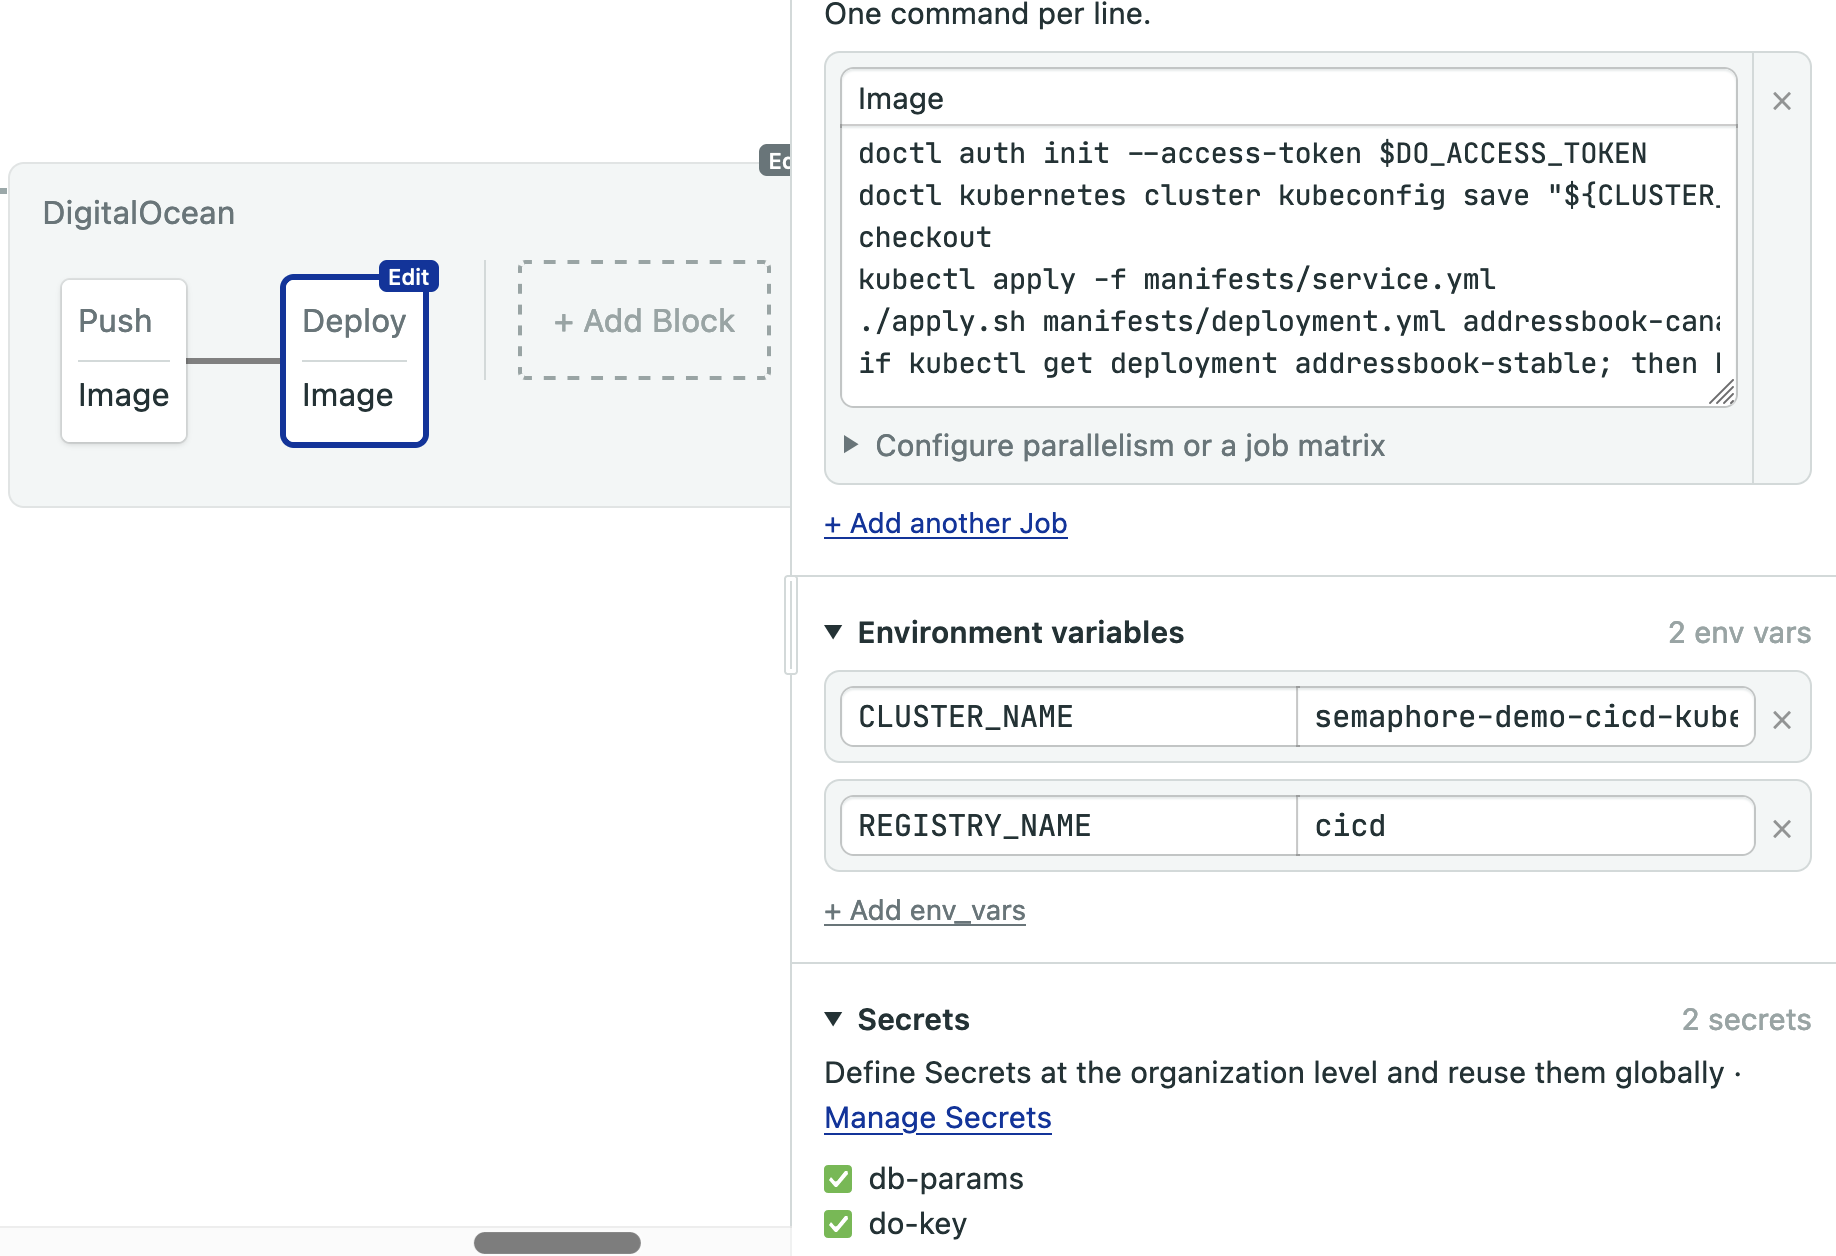
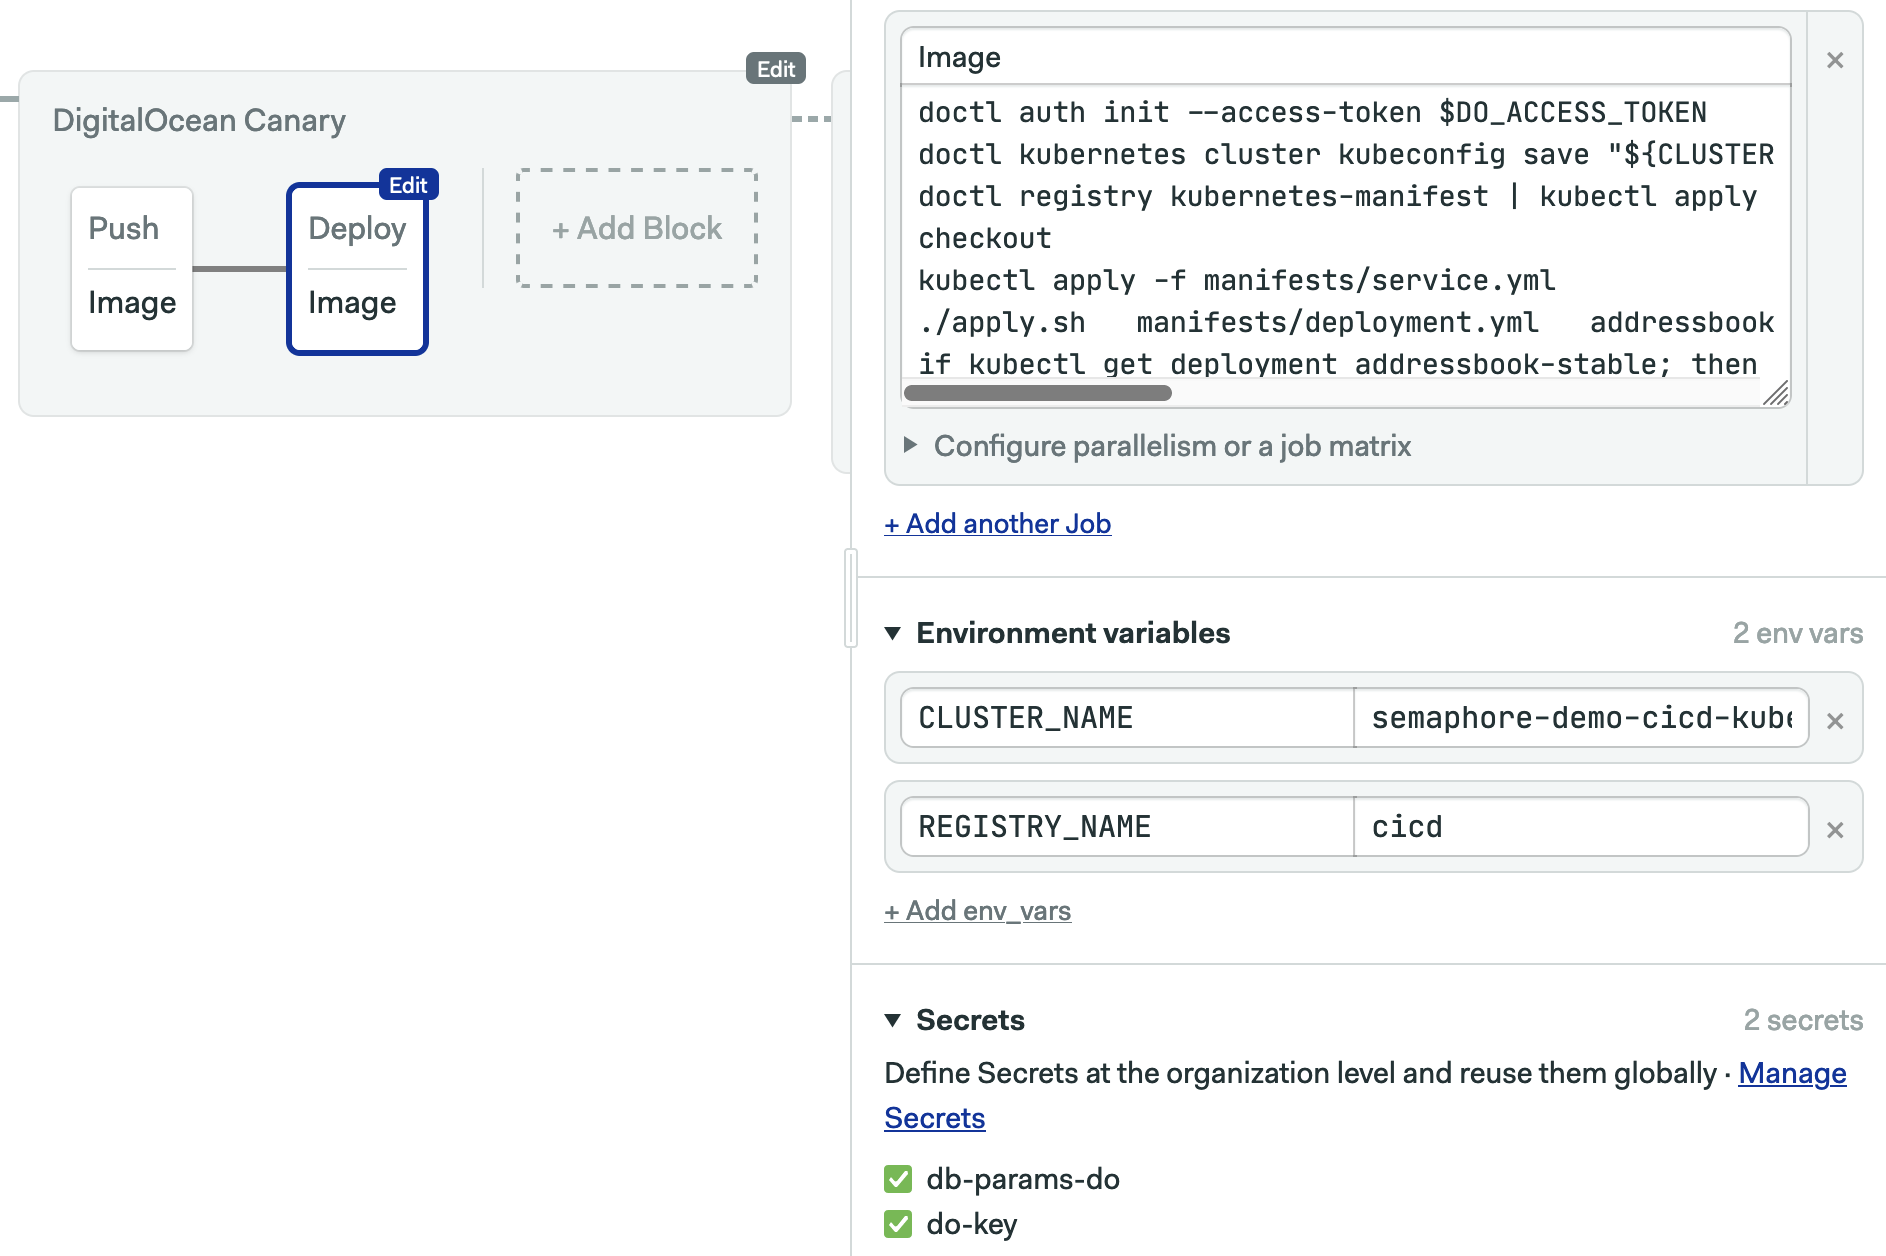
update images using parametrized promotions

diff --git a/chapters/08-tutorial-deployment.md b/chapters/08-tutorial-deployment.md
@@ -16,11 +16,21 @@ Create a new promotion using the *+Add First Promotion* button. Promotions conne
 
 Check the *Enable automatic promotion* box. Now we can define the following auto-starting conditions for the new pipeline:
 
-```
+```text
 result = 'passed' and (branch = 'master' or tag =~ '^hotfix*')
 ```
 
 ![Automatic promotion](./figures/05-sem-canary-auto-promotion.png){ width=95% }
+
+Below the promotion options, click on *+ Add Environment Variables* to create a parameter for a pipeline. Parametrization let us set runtime values and reuse a pipeline for similar tasks.
+
+The parameter we're going to add is going to let us specify the number of Canary pods to deploy. Set the variable name to `CANARY_PODS`, ensure that "This is a required parameter" is checked and type "1" in default value.
+
+![](./figures/08-param1.png){ width=60% }
+
+Create a second parameter called `STABLE_PODS`. Set the default value to "2".
+
+![](./figures/08-param2.png){ width=60% }
 
 In the new pipeline, click on the first block. Let's call it “Push”. The push block takes the Docker image that we built earlier and uploads it to the private Container Registry. The secrets and the login command will vary depending on the cloud of choice.
 
@@ -33,10 +43,10 @@ docker login \
   -u $SEMAPHORE_REGISTRY_USERNAME \
   -p $SEMAPHORE_REGISTRY_PASSWORD \
   $SEMAPHORE_REGISTRY_URL
-  
+
 docker pull \
   $SEMAPHORE_REGISTRY_URL/demo:$SEMAPHORE_WORKFLOW_ID
-  
+
 docker tag \
   $SEMAPHORE_REGISTRY_URL/demo:$SEMAPHORE_WORKFLOW_ID \
   registry.digitalocean.com/$REGISTRY_NAME/demo:$SEMAPHORE_WORKFLOW_ID
@@ -67,34 +77,39 @@ Add the following commands to the *job*:
 ```bash
 doctl auth init --access-token $DO_ACCESS_TOKEN
 doctl kubernetes cluster kubeconfig save "${CLUSTER_NAME}"
+doctl registry kubernetes-manifest | kubectl apply -f -
 checkout
 kubectl apply -f manifests/service.yml
 
 ./apply.sh \
   manifests/deployment.yml \
-  addressbook-canary 1 \
+  addressbook-canary $CANARY_PODS \
   registry.digitalocean.com/$REGISTRY_NAME/demo:$SEMAPHORE_WORKFLOW_ID
 
 if kubectl get deployment addressbook-stable; then \
-  kubectl scale --replicas=2 deployment/addressbook-stable; \
+  kubectl scale --replicas=$STABLE_PODS deployment/addressbook-stable; \
 fi
 ```
 
 This is the canary job sequence:
 
+  - Initialize the cluster config.
+  - Generate the Container Service credentials and import them into the cluster.
+  - Clone the GitHub repository with `checkout`.
   - Create a load balancer service with `kubectl apply`.
-  - Execute `apply.sh`, which creates the canary deployment.
-  - Reduce the size of the stable deployment with `kubectl scale`.
+  - Execute `apply.sh`, which creates the canary deployment. The number of pods in the deployment is held  `$CANARY_PODS`.
+  - Reduce the size of the stable deployment with `kubectl scale` to `$STABLE_PODS`.
 
 ![Deploy block](./figures/05-sem-canary-deploy-block.png){ width=95% }
 
-Create a third block called “Functional test and migration” and enable the `do-key` secret. Repeat the environment variables. This is the last block in the pipeline and it runs some automated tests on the canary. By combining `kubectl get pod` and `kubectl exec`, we can run commands inside the pod.
+Create a third block called “Functional test” and enable the `do-key` secret. Repeat the environment variables. This is the last block in the pipeline and it runs some automated tests on the canary. By combining `kubectl get pod` and `kubectl exec`, we can run commands inside the pod.
 
 Type the following commands in the job:
 
 ```bash
 doctl auth init --access-token $DO_ACCESS_TOKEN
 doctl kubernetes cluster kubeconfig save "${CLUSTER_NAME}"
+doctl registry kubernetes-manifest | kubectl apply -f -
 checkout
 POD=$(kubectl get pod -l deployment=addressbook-canary -o name | head -n 1)
 kubectl exec -it "$POD" -- npm run ping
@@ -115,6 +130,10 @@ Create a new pipeline (using the *Add promotion* button) branching out from the 
 
 ![Stable promotion](./figures/05-sem-stable-promotion.png){ width=95% }
 
+Add a parameter called `$STABLE_PODS` with default value "3".
+
+![](./figures/08-param3.png){ width=60% }
+
 Create the “Deploy to Kubernetes” block with the `do-key` and `db-params` secrets. Also, create the `CLUSTER_NAME` and `REGISTRY_NAME` variables as we did in the previous step.
 
 In the job command box, type the following lines to make the rolling deployment and delete the canary pods:
@@ -122,12 +141,13 @@ In the job command box, type the following lines to make the rolling deployment 
 ```bash
 doctl auth init --access-token $DO_ACCESS_TOKEN
 doctl kubernetes cluster kubeconfig save "${CLUSTER_NAME}"
+doctl registry kubernetes-manifest | kubectl apply -f -
 checkout
 kubectl apply -f manifests/service.yml
 
 ./apply.sh \
   manifests/deployment.yml \
-  addressbook-stable 3 \
+  addressbook-stable $STABLE_PODS \
   registry.digitalocean.com/$REGISTRY_NAME/demo:$SEMAPHORE_WORKFLOW_ID
 
 if kubectl get deployment addressbook-canary; then \
@@ -143,12 +163,17 @@ Good! We’re done with the release pipeline.
 
 Here is the moment of truth. Will the canary work? Click on *Run the workflow* and then *Start*.
 
-Wait until the CI pipeline is done an click on *Promote* to start the canary pipeline[^no-autopromotion].
+Wait until the CI pipeline is done an click on *Promote* to start the canary pipeline[^no-autopromotion]. As you can see on the screenshot below, manually starting a promotion lets you customize the parameters.
+
+
 
 [^no-autopromotion]: You might be wondering why the automatic promotion hasn’t kicked in for the canary pipeline. The reason is that we set it to trigger only for the master branch, and the Workflow Builder by default saves all its changes on a separate branch called `setup-semaphore`.
 
-![Canary Promote](./figures/05-sem-promote-canary.png)
-![Canary Pipeline](./figures/05-sem-canary-pipeline.png)
+![Canary Promote](./figures/08-promote1.png){ width=60% }
+
+Press *Start Promotion* to run the canary pipeline.
+
+![Canary Pipeline](./figures/05-sem-canary-pipeline.png){ width=60% }
 
 Once it completes, we can check how the canary is doing.
 
@@ -163,11 +188,15 @@ addressbook-canary  1/1   1          1         8m40s
 
 In tandem with the canary deployment, we should have a dashboard to monitor errors, user reports, and performance metrics to compare against the baseline. After some pre-determined amount of time, we would reach a go vs. no-go decision. Is the canary version is good enough to be promoted to stable? If so, the deployment continues. If not, after collecting the necessary error reports and stack traces, we rollback and regroup.
 
-Let’s say we decide to go ahead. So go on and hit the *Promote* button next to the stable pipeline.
+Let’s say we decide to go ahead. So go on and hit the *Promote* button, you can tweak the number of final pods to deploy.
+
+![](./figures/08-promote-stable.png){ width=95% }
+
+The stable pipeline should be done in a few seconds.
 
 ![Stable Pipeline](./figures/05-sem-stable-pipeline.png){ width=60% }
 
-While the block runs, you should see both the existing canary and a new “addressbook-stable” deployment:
+If you're fast enough, while the block runs you can see both the existing canary and a new “addressbook-stable” deployment.
 
 ``` bash
 $ kubectl get deployment
@@ -254,11 +283,14 @@ result = 'failed'
 
 ![Rollback promotion](./figures/05-sem-rollback-promotion.png){ width=95% }
 
+Create the `STABLE_PODS` parameter with default value "3" to finalize the promotion configuration.
+
 The rollback job collects information to help diagnose the problem. Create a new block called “Rollback Canary”, import the `do-ctl` secret, and create `CLUSTER_NAME` and `REGISTRY_NAME`.  Type these lines in the job:
 
 ```bash
 doctl auth init --access-token $DO_ACCESS_TOKEN
 doctl kubernetes cluster kubeconfig save "${CLUSTER_NAME}"
+doctl registry kubernetes-manifest | kubectl apply -f -
 kubectl get all -o wide
 kubectl get events
 kubectl describe deployment addressbook-canary || true
@@ -266,7 +298,7 @@ POD=$(kubectl get pod -l deployment=addressbook-canary -o name | head -n 1)
 kubectl logs "$POD" || true
 
 if kubectl get deployment addressbook-stable; then \
-  kubectl scale --replicas=3 \
+  kubectl scale --replicas=$STABLE_PODS \
   deployment/addressbook-stable; \
 fi
 

diff --git a/chapters/05-tutorial-intro.md b/chapters/05-tutorial-intro.md
@@ -262,7 +262,7 @@ A good CI/CD workflow takes planning as there are many moving parts: building, t
 
 Our CI/CD workflow begins with the mandatory continuous integration pipeline:
 
-![Continuous Integration Flow](./figures/05-flow-docker-build.png)
+![Continuous Integration Flow](./figures/05-flow-docker-build.png){ width=95% }
 
 The CI pipeline performs the following steps:
 
@@ -286,7 +286,7 @@ A canary deployment is a limited release of a new version. We’ll call it _cana
 
 We can do a canary deployment by connecting the canary pods to the same load balancer as the rest of the pods. As a result, a set fraction of user traffic goes to the canary. For example, if we have nine stable pods and one canary pod, 10% of the users would get the canary release.
 
-![Canary release flow](./figures/05-flow-canary-deployment.png)
+![Canary release flow](./figures/05-flow-canary-deployment.png){ width=95% }
 
 The canary release performs the following steps:
 
@@ -299,10 +299,10 @@ Let’s take a closer look at how the stable release works.
 
 Imagine that this is your initial state: you have three pods running version **v1**.
 
-![Stable release via rolling update](./figures/05-transition-canary.png)
+![Stable release via rolling update](./figures/05-transition-canary.png){ width=95% }
 
 When you deploy **v2** as a canary, you scale down the number of **v1** pods to 2, to keep the total amount of pods to 3.
 
 Then, you can start a rolling update to version **v2** on the stable deployment. One at a time, all its pods are updated and restarted, until they are all running on **v2** and you can get rid of the canary.
 
-![Completing a stable release](./figures/05-transition-stable.png)
+![Completing a stable release](./figures/05-transition-stable.png){ width=95% }

diff --git a/chapters/07-tutorial-clouds.md b/chapters/07-tutorial-clouds.md
@@ -65,7 +65,7 @@ Creating a cluster on AWS is, unequivocally, a complex affair. So complex that t
 
   - Sign up or log in to your AWS account at [aws.amazon.com](https://aws.amazon.com).
   - Select one of the available regions.
-  - Find and go to the *ECR* service. Create a new repository called “semaphore-demo-cicd-kubernetes” and copy its address.
+  - Find and go to the *ECR* service. Create a new private repository called “semaphore-demo-cicd-kubernetes” and copy its address.
   - Install *eksctl* from `eksctl.io` and *awscli* from `aws.amazon.com/cli` in your machine.
   - Find the *IAM* console in AWS and create a user with Administrator permissions. Get its *Access Key Id* and *Secret Access Key* values.
 
